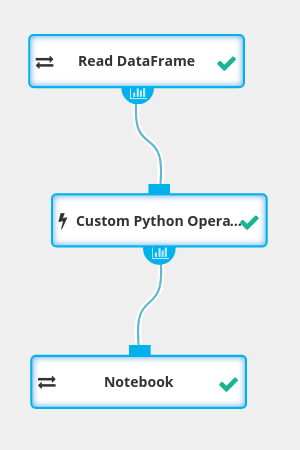
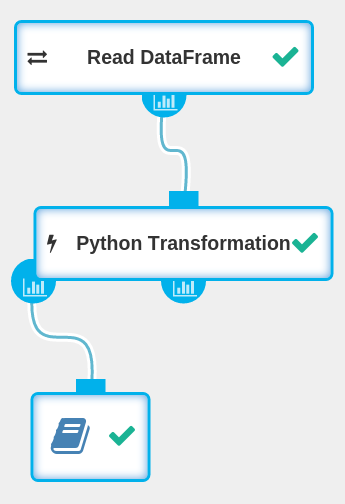
DS-3077 Upgrade use case descriptions&workflows

Changed region(s): [[0.03, 0.0311, 0.99, 0.9644]]

diff --git a/docs/index.md b/docs/index.md
@@ -82,14 +82,14 @@ city, number of bedrooms, number of bathrooms, size of the apartment (in square 
 
 Let's calculate the average apartment price for each city:
 
-* From the **Operation Catalogue**, drag a [Execute SQL Expression](operations/execute_sql_expression.html)
+* From the **Operation Catalogue**, drag a [SQL Transformation](operations/sql_transformation.html)
 operation onto your canvas.
-* Drag the `Read DataFrame` output to the `Execute SQL Expression` input to make a connection.
-* Fill the `Execute SQL Expression` operation's parameters:
+* Drag the `Read DataFrame` output to the `SQL Transformation` input to make a connection.
+* Fill the `SQL Transformation` operation's parameters:
   * Set **DATAFRAME ID** to `transactions`. In SQL expression you will refer to the DataFrame by this name.
   * Set **EXPRESSION** to `SELECT city, AVG(price) as avg_price FROM transactions GROUP BY city`
 * Click **RUN** to execute this workflow and you will see two completed nodes.
-* To view results by clicking on the first output port of the `Execute SQL Expression`.
+* To view results by clicking on the first output port of the `SQL Transformation`.
 
 <img class="img-responsive" style="margin: 0 auto; width:60%; height:auto" src="./img/quickstart/report.png" />
 
@@ -300,7 +300,7 @@ to interactively analyze data.
     in the **SOURCE** parameter - the dataset will be downloaded from this location
 
 * Process the dataset before opening the notebook
-  * Drag [Custom Python Operation](operations/custom_python_operation.html) to your canvas
+  * Drag [Python Transformation](operations/python_transformation.html) to your canvas
   * Put the following code in the **CODE** parameter, in order to extract the <code>FCE</code> value
     from <code>Certificates</code> column to a separate column:
 
